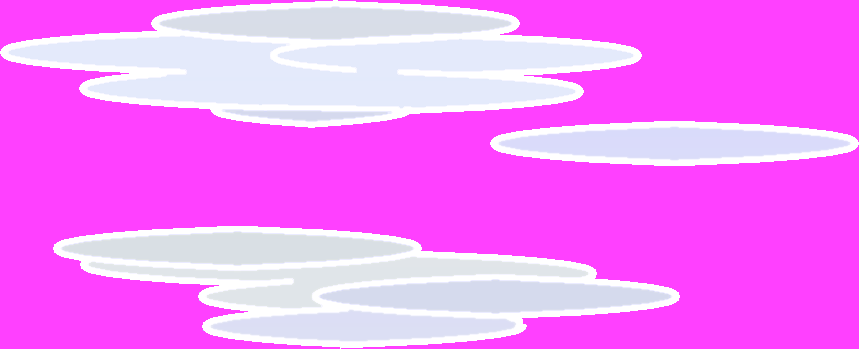
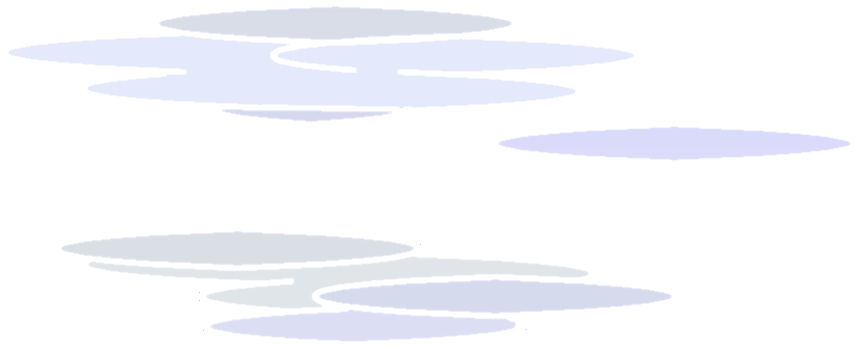
- Updated scrolling demo resources (boats instead of canyons & alpha channel used) - Changed some frequencies / Y positions for resources - Waves are all spread on a whole period now, not only half a period as before

diff --git a/orx/plugins/Demo/orxScroll.c b/orx/plugins/Demo/orxScroll.c
@@ -35,6 +35,7 @@
 #define orxSCROLL_KZ_BACKGROUND_NAME          "background.png"
 #define orxSCROLL_KU32_WAVE_FRAME_NUMBER      4
 #define orxSCROLL_KF_WAVE_ANGULAR_VELOCITY    (orx2F(0.0004f) * orxMATH_KF_PI)
+#define orxSCROLL_KF_WAVE_PHASIS              (orx2F(2.0f) * orxMATH_KF_PI / orx2F(orxSCROLL_KU32_WAVE_FRAME_NUMBER))
 
 
 /***************************************************************************
@@ -107,21 +108,21 @@ orxSTATIC orxSCROLL_RESOURCE_INFO sastInfo[orxSCROLL_RESOURCE_NUMBER] =
 {
     {
         "fuji.png",
-        {orx2F(0.0f), orx2F(1.0f), orx2F(0.9f)},
+        {orx2F(0.0f), orx2F(1.1f), orx2F(0.9f)},
         {orx2F(11.0f), orx2F(1.3f), orx2F(1.0f)},
         80
     },
     {
-        "canyon1.png",
+        "boat1.png",
         {orx2F(0.0f), orx2F(1.0f), orx2F(0.6f)},
-        {orx2F(11.0f), orx2F(1.3f), orx2F(0.8f)},
+        {orx2F(11.0f), orx2F(1.25f), orx2F(0.8f)},
         15
     },
     {
-        "canyon2.png",
+        "boat2.png",
         {orx2F(0.0f), orx2F(1.0f), orx2F(0.2f)},
-        {orx2F(11.0f), orx2F(1.4f), orx2F(0.5f)},
-        30
+        {orx2F(11.0f), orx2F(1.15f), orx2F(0.5f)},
+        20
     },
     {
         "cloud.png",
@@ -148,7 +149,7 @@ orxSTATIC orxINLINE orxFLOAT orxScroll_Random(orxFLOAT _fMin, orxFLOAT _fMax)
 
   /* Gets random number */
   fResult = orx2F(rand()) * (orx2F(1.0f) / orx2F(RAND_MAX));
-  fResult = _fMin + fResult * (_fMax - _fMin);
+  fResult = (fResult * (_fMax - _fMin)) + _fMin;
 
   /* Done! */
   return fResult;
@@ -209,7 +210,7 @@ orxVOID orxFASTCALL orxScroll_Update(orxCONST orxCLOCK_INFO *_pstClockInfo, orxV
     orxFrame_GetPosition(sstScroll.apstWaveFrame[i], orxFRAME_SPACE_LOCAL, &vPos);
 
     /* Updates its Y coordinate along a sine with initial phasis */
-    vPos.fY = sstScroll.fWaveAmplitude * sinf((orxU2F(i) * orxMATH_KF_PI / orx2F(orxSCROLL_KU32_WAVE_FRAME_NUMBER)) + (orxSCROLL_KF_WAVE_ANGULAR_VELOCITY * orxU2F(_pstClockInfo->u32Time)));
+    vPos.fY = sstScroll.fWaveAmplitude * sinf((orxU2F(i) * orxSCROLL_KF_WAVE_PHASIS) + (orxSCROLL_KF_WAVE_ANGULAR_VELOCITY * orxU2F(_pstClockInfo->u32Time)));
 
     /* Applies it */
     orxFrame_SetPosition(sstScroll.apstWaveFrame[i], &vPos);
@@ -268,9 +269,6 @@ orxSTATIC orxSTATUS orxScroll_Init()
 
       /* Inits pivot */
       orxVector_Set(&vPivot, orxFLOAT_0, fHeight, orxFLOAT_0); 
-
-      /* Sets it transparent color */
-      orxDisplay_SetBitmapColorKey(orxTexture_GetBitmap(sstScroll.astData[i].pstTexture), orx2RGBA(0xFF, 0x40, 0xFF, 0x00), orxTRUE);
 
       /* Creates & inits 2D graphic objet from texture */
       sstScroll.astData[i].pstGraphic = orxGraphic_Create();
